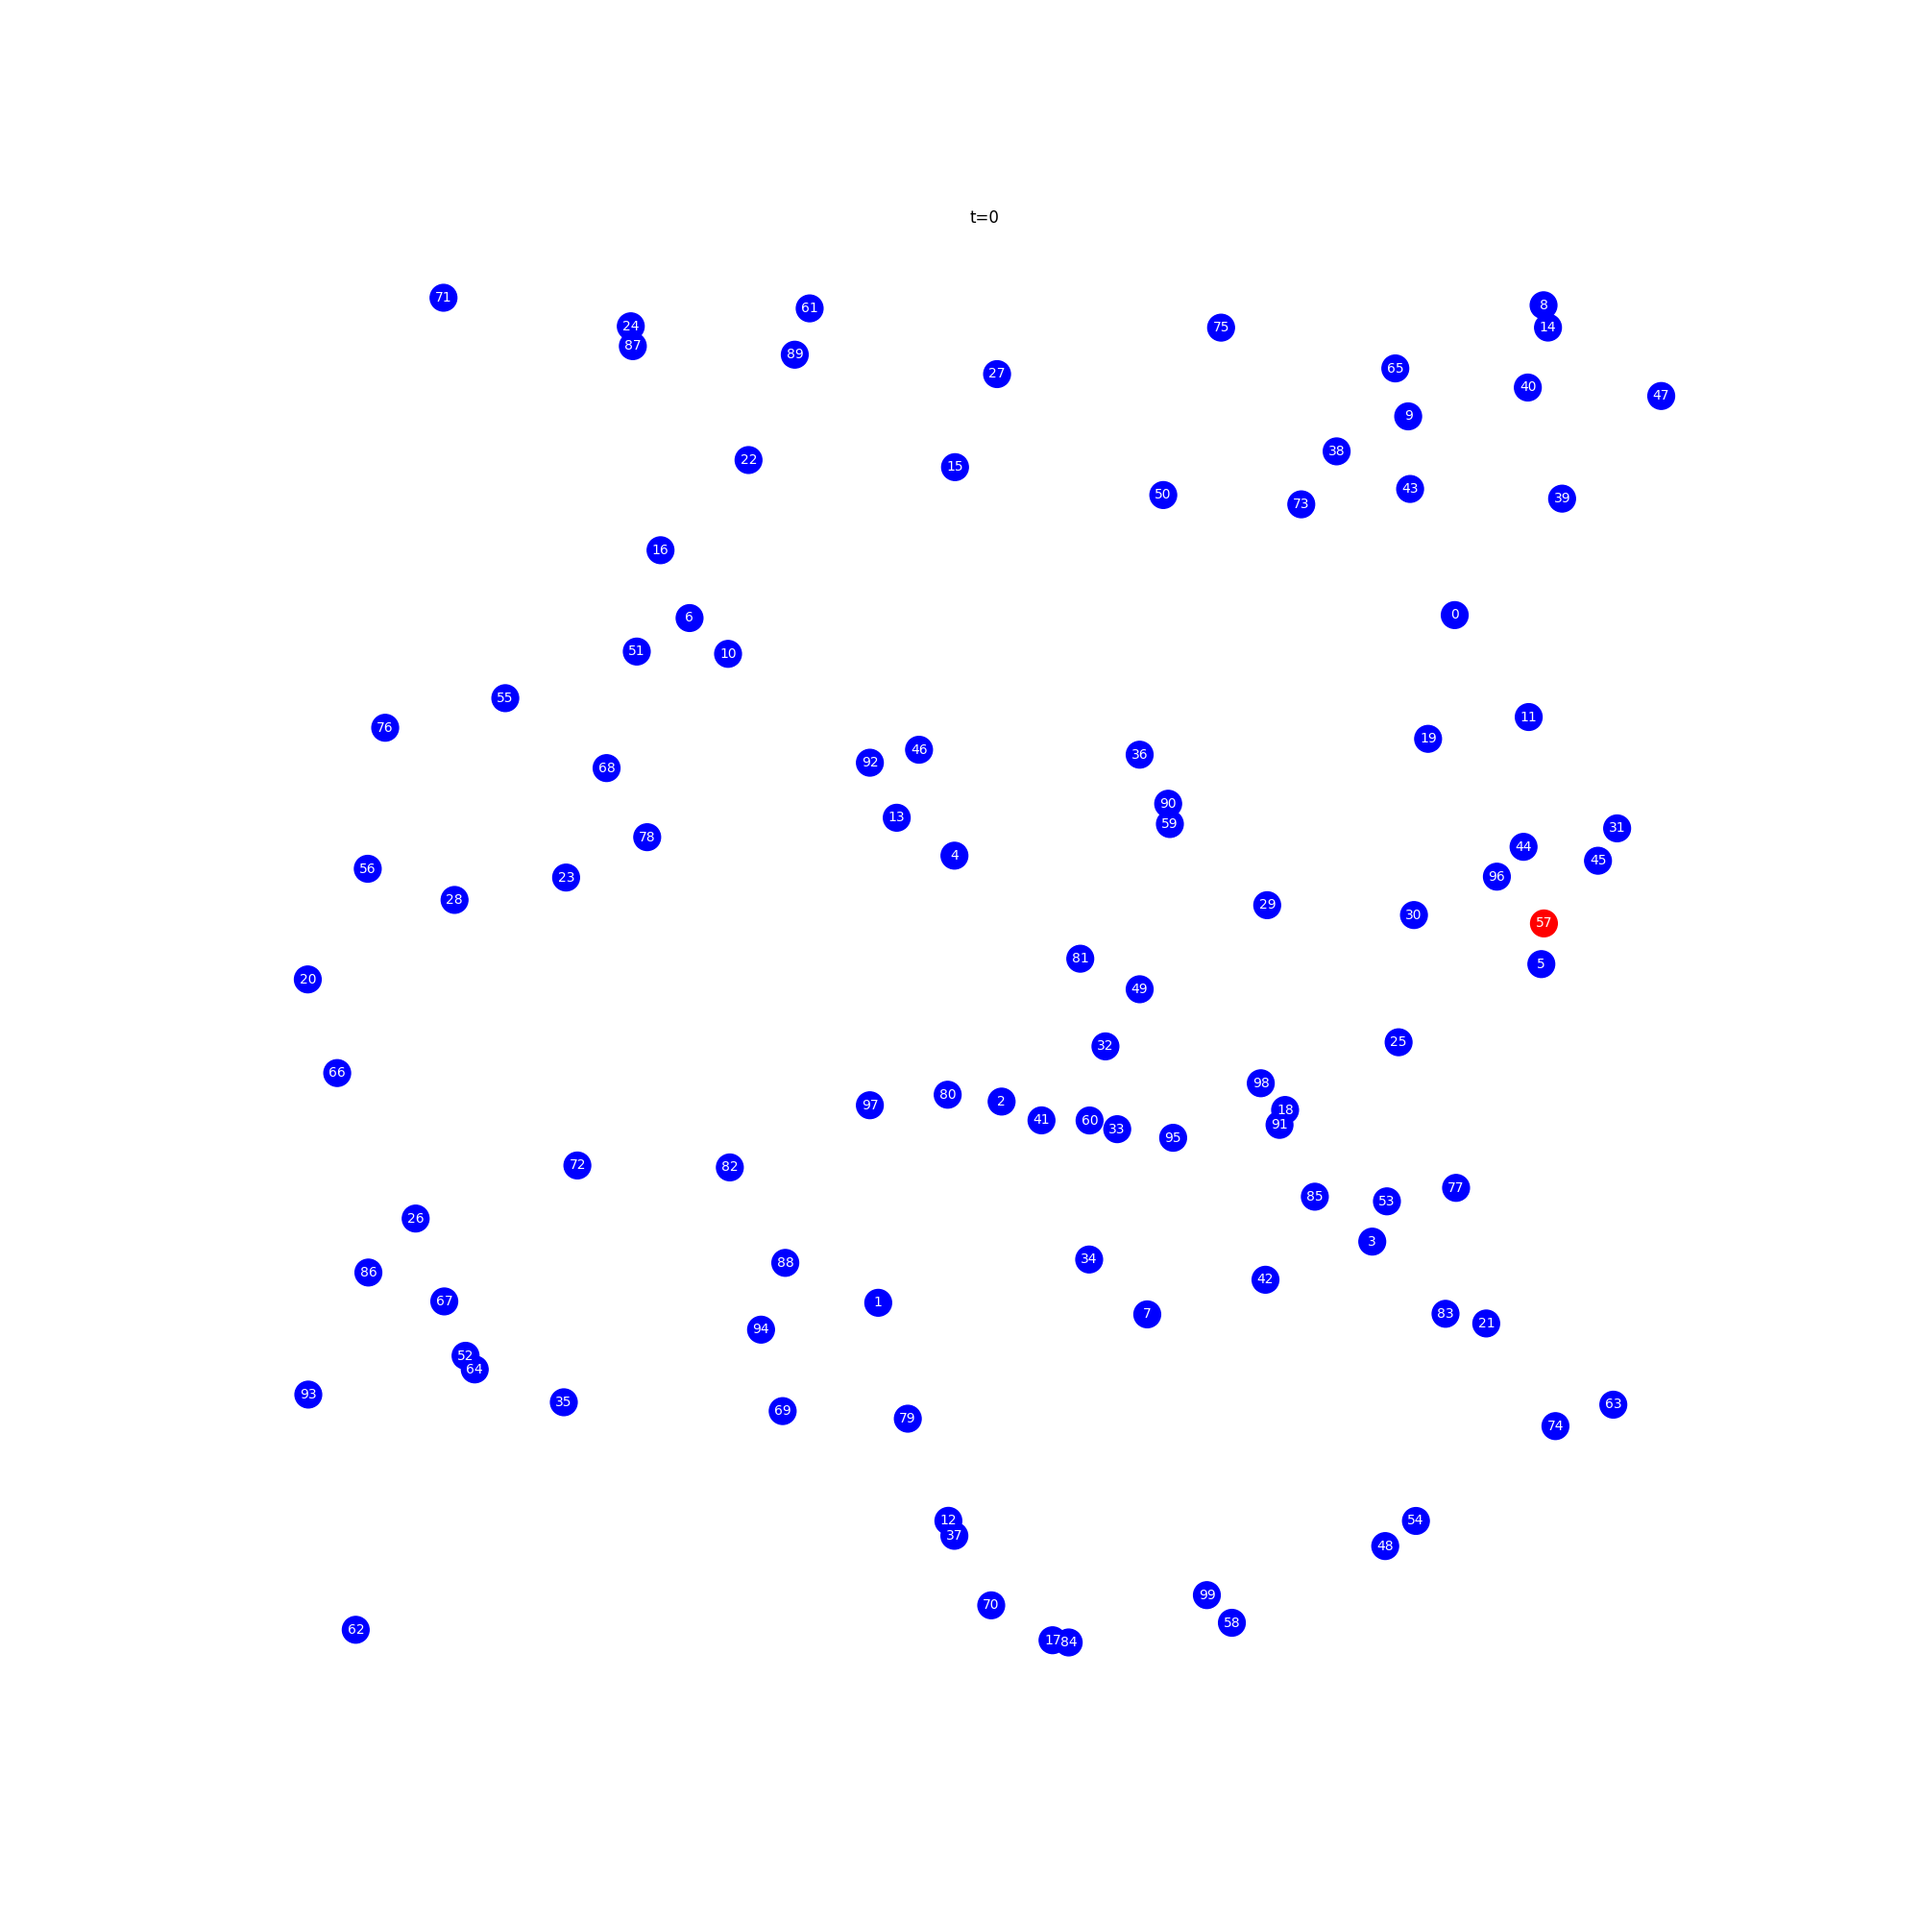
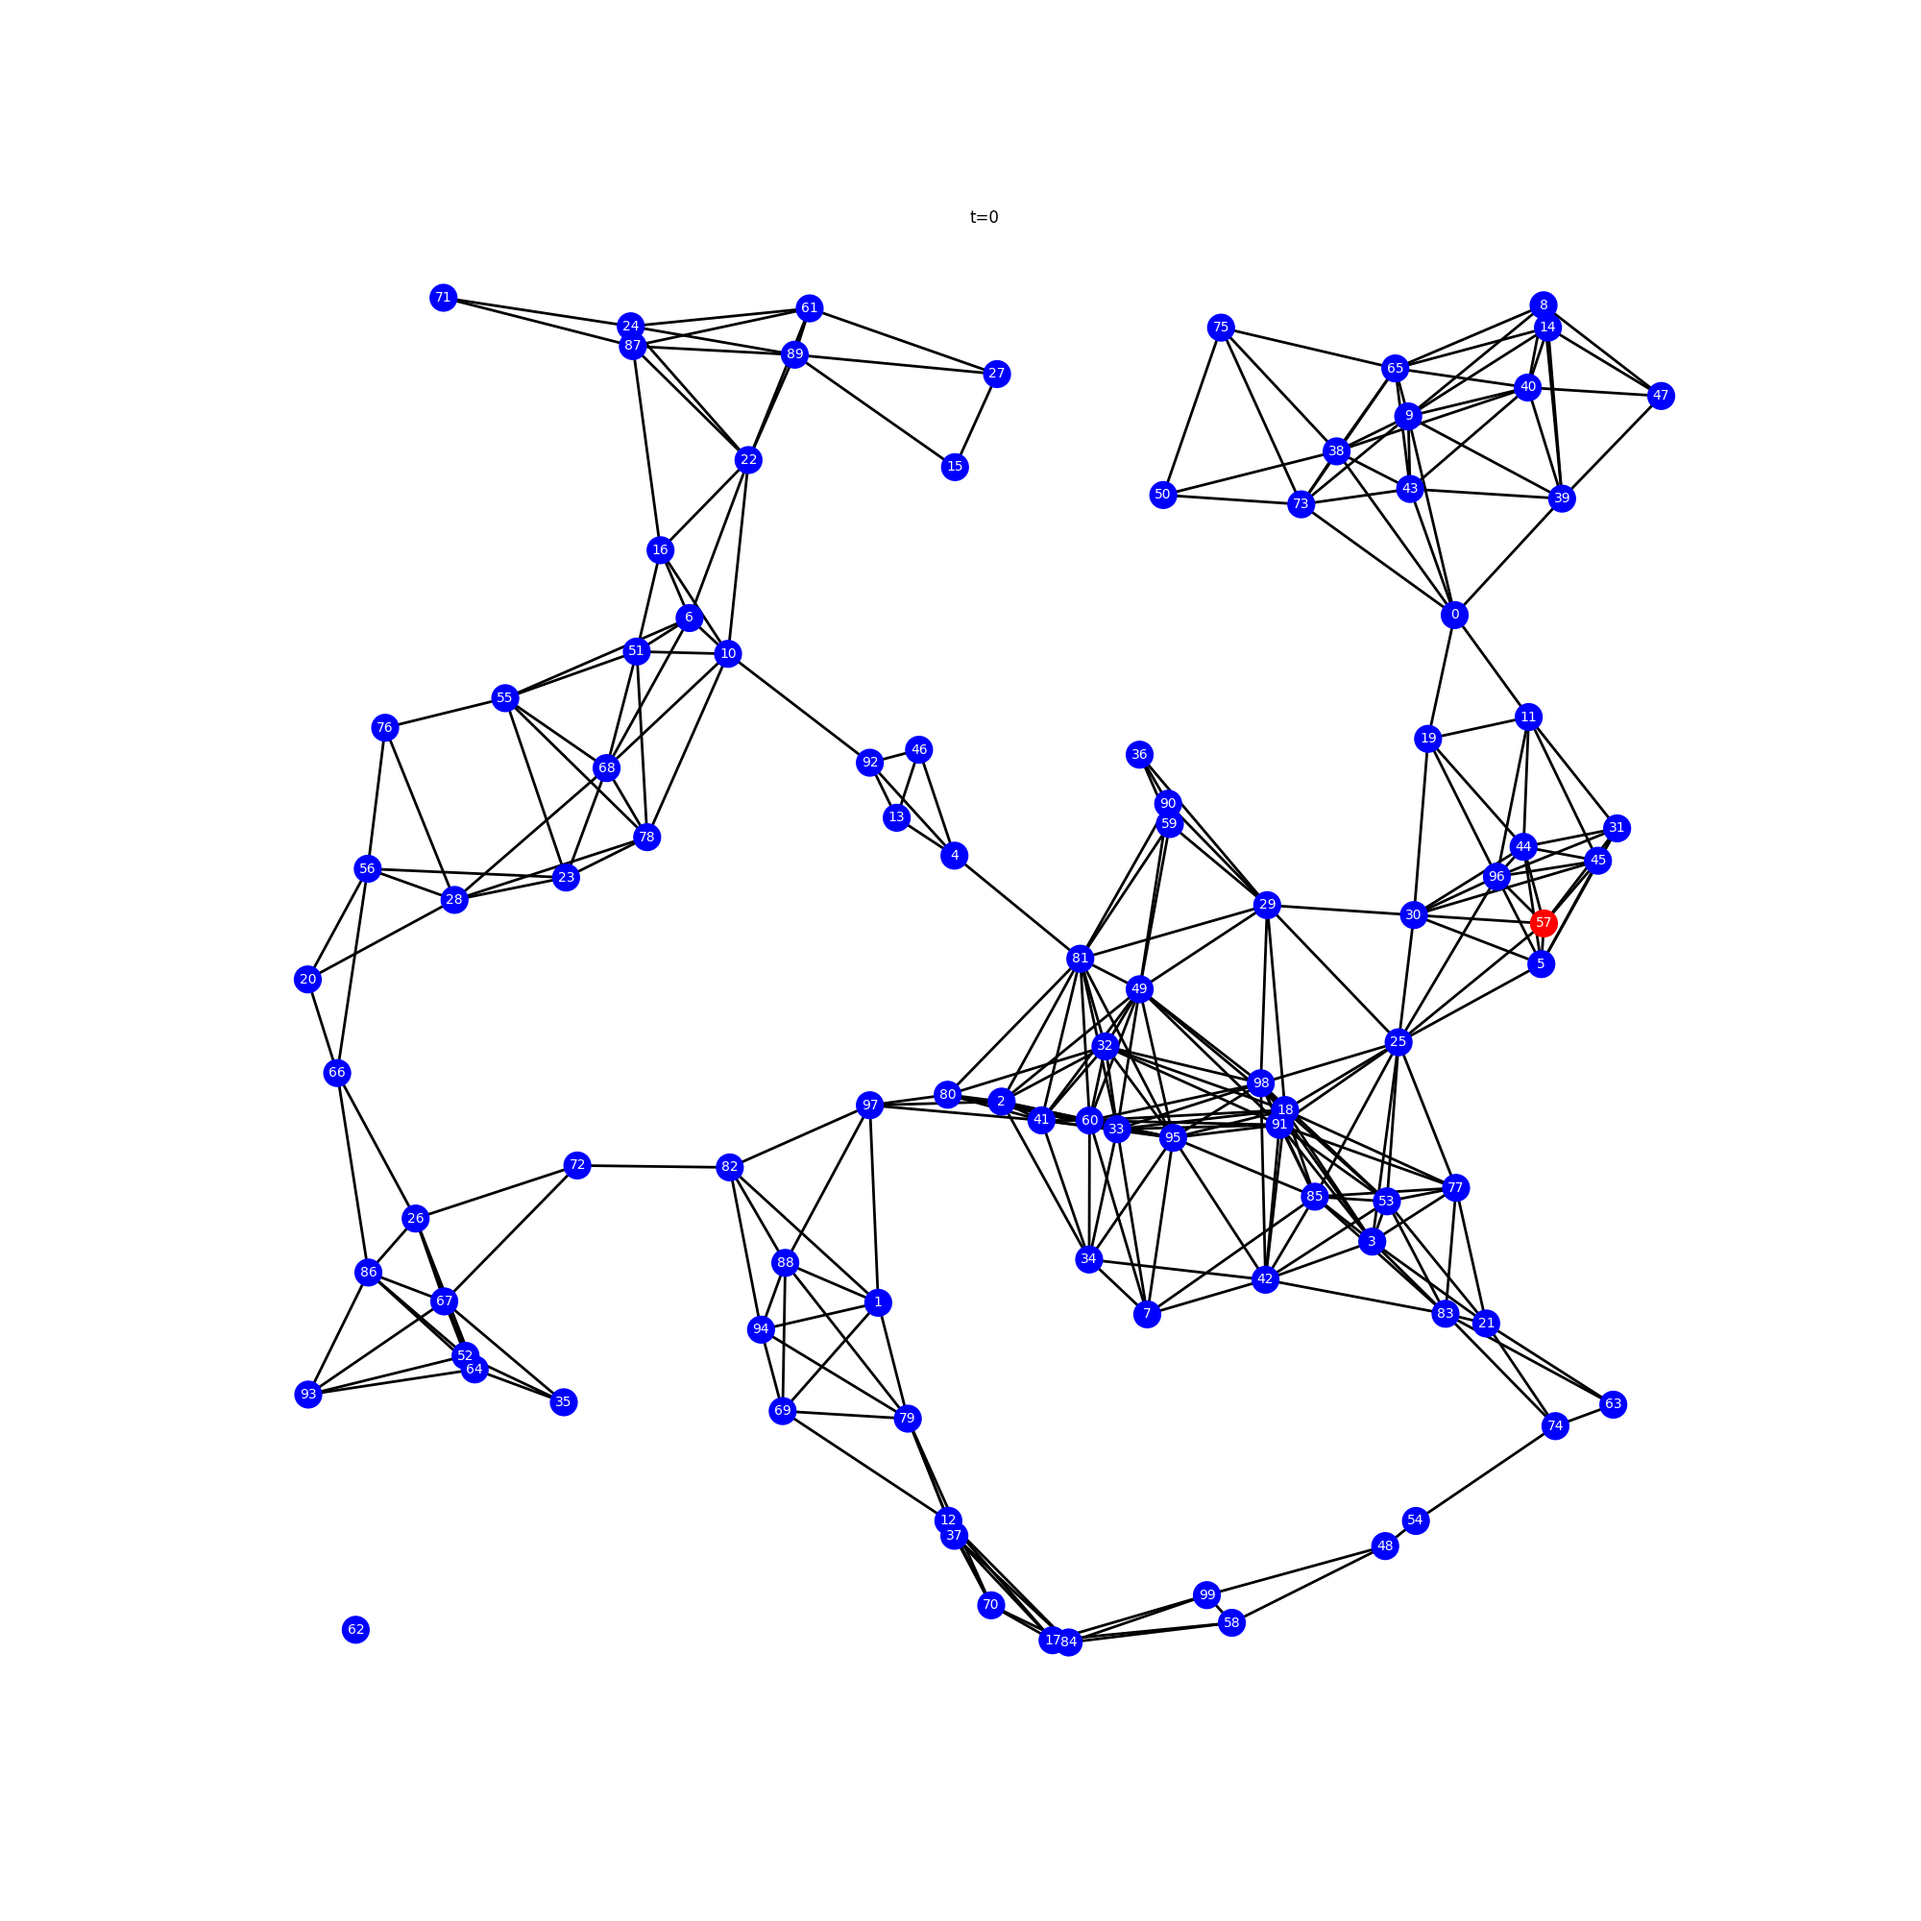
slime;距離の計算がおかしい。ベクトル で考えるべき

diff --git a/Node.py b/Node.py
@@ -60,6 +60,15 @@ class node:  # ノードの情報や処理
     self.packet = None
     self.select_next_node = []
 
+  def connect_links(self, nodes):
+    self.neighbor = []
+    for _node in nodes:
+      if _node is self:
+        continue
+      if self.position.distance(_node.position) < self.communication_range:
+        self.neighbor.append(_node)
+    return
+
   def move(self):
     self.position.move()
     return

diff --git a/Main.py b/Main.py
@@ -44,7 +44,7 @@ def get_nodes_position(nodes):  # ノードの場所を辞書型配列{ノード
 def get_nodes_link(nodes):  # ノード同士が接続関係を配列で返す
   nodes_link = []
   for _node in nodes:
-    _node.send_hello(nodes)
+    _node.connect_links(nodes)
     for neighbor in _node.neighbor:
       nodes_link.append((_node, neighbor))
   return nodes_link

diff --git a/Samples/solve_rotate.py b/Samples/solve_rotate.py
@@ -1,0 +1,8 @@
+
+import math
+
+Ax, Ay = 369, 337
+Bx, By = 364, 393
+Cx, Cy = 364, 213
+
+print((math.atan2(Cy - By, Cx - Bx) - math.atan2(Ay - By, Ax - Bx)) / math.pi * 180)
